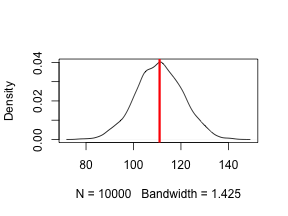
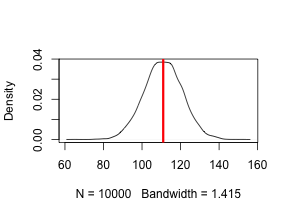
Slight revision, changing quad approx plot

diff --git a/hw1ashander.md b/hw1ashander.md
@@ -1,12 +1,65 @@
-# Homework 1, Statistical rethinking
- Jaime Ashander
+latex input:		mmd-tufte-handout-header  
+Title:			Homework 1, Statistical rethinking
+Base Header Level:	2
+latex mode:			memoir  
+author:           Jaime Ashander
+copyright:			2011 Jaime Ashander
+					This work is licensed under a Creative Commons License.  
+					http://creativecommons.org/licenses/by-nc-sa/3.0/  
+latex input:		mmd-natbib-plain
+latex input:		mmd-tufte-handout-begin-doc  
+latex footer:		mmd-tufte-footer
 
 
 
+```
+## Loading required package: bbmle
+```
+```
+## Loading required package: stats4
+```
+```
+## Loading required package: numDeriv
+```
+```
+## Loading required package: lattice
+```
+```
+## Loading required package: MASS
+```
+```
+## Loading required package: rethinking
+```
+```
+## Loading required package: ggplot2
+```
+```
+## Loading required package: reshape
+```
+```
+## Loading required package: plyr
+```
+```
+## 
+## Attaching package: 'reshape'
+## 
+```
+```
+## The following object(s) are masked from 'package:plyr':
+## 
+##     rename, round_any
+## 
+```
+```
+## Loading required package: grid
+```
+```
+## Loading required package: proto
+```
 
 
 
-# Problem 1  
+## Problem 1  
 
 First load the data, `birth1` and `birth2`, which indicate the gender (male=1, female=0) of reported first (second) born children in 100 families.
 All families in this country have a maximum of two children.
@@ -20,7 +73,7 @@ data(homeworkch2)  #
 
 
 
-## 1 a
+### 1 a
 
 ```r
 p.b <- seq(from = 0, to = 1, length.out = 1000)
@@ -47,7 +100,7 @@ pb.max <- Max.post(p.b, posterior)
 
 
 
-## 1 b
+### 1 b
 
 
 
@@ -58,7 +111,12 @@ Choice of appropriate sample and formatting of output is encapsulated in functio
 ```r
 p.b.sample <- sample(p.b, size = 10000, replace = TRUE, 
     prob = posterior)
-CI.types=c(0.50, 0.90, 0.95)
+```
+```
+## Warning message: Walker's alias method used: results are different from R < 2.2.0
+```
+```r
+CI.types <- c(0.5, 0.9, 0.95)
 CI.data <- t(sapply(CI.types, function(x) {
     unlist(Precis.bayes(p.b, posterior = posterior, param.samples = p.b.sample, 
         level = x))
@@ -73,16 +131,16 @@ Credible intervals, based on sampling the posterior density, for probabilty of d
   
 ```
 ##   Estimate  lower  upper Interval.width
-## 1   0.5546 0.5305 0.5776            0.5
-## 2   0.5546 0.4965 0.6126            0.9
-## 3   0.5546 0.4825 0.6216           0.95
+## 1   0.5546 0.5255 0.5726            0.5
+## 2   0.5546 0.4945 0.6086            0.9
+## 3   0.5546 0.4865 0.6226           0.95
 ```
 
 
 
   Maximum posterior probability estimate of `p.b` is also reported.
 
-## 1c
+### 1c
 
 For maximum likelihood estimation we use `mle2`, and `rethinking::precis` to construct confidence intervals. 
 
@@ -129,7 +187,7 @@ Additionally, the ML posterior is symmetric.
 
 ```r
 dens.compare <- data.frame(probability = p.b, 
-    Bayes = -log(posterior), ML = -log(dnorm(p.b, mean = pb.max, 
+    Bayes = -log(posterior), ML = -log(dnorm(p.b, mean = fit.ml$Estimate[1], 
         sd = sqrt(vcov(pb.ml)))/sum(dnorm(p.b, mean = pb.max, 
         sd = sqrt(vcov(pb.ml))))))
 d.c = melt(dens.compare, id.vars = "probability")
@@ -137,7 +195,7 @@ d.c = melt(dens.compare, id.vars = "probability")
 g <- ggplot(d.c, aes(probability, value, color = variable))
 g + geom_line() + ylab("- log density")
 ```
-![plot of chunk prob1_fig2](https://github.com/ashander/stat-rethink/raw/master/prob1_fig2.png)
+![plot of chunk prob1_fig1](https://github.com/ashander/stat-rethink/raw/master/prob1_fig1.png)
 
 
 The ML confidence intervals and Bayesian HPDIs are shown below recentered by the ML estimate.
@@ -159,14 +217,14 @@ g <- ggplot(fit.both)
 g + geom_pointrange(aes(Interval.width, Estimate, 
     ymin = lower, ymax = upper, color = type), position = position_dodge(width = 0.1))
 ```
-![plot of chunk prob1_fig1](https://github.com/ashander/stat-rethink/raw/master/prob1_fig1.png)
+![plot of chunk prob1_fig2](https://github.com/ashander/stat-rethink/raw/master/prob1_fig2.png)
 
 
 
   
-# Problem 2
+## Problem 2
 
-## 2a
+### 2a
 
   Now, we simulate the number of boys born in 200 births using `rbinom`, 10000 replicates:
 
@@ -192,7 +250,7 @@ Above is the density of the predicted number of boys, with the actual births (re
 From this use of posterior predictive simulation, the model seems to fit the data well.
 
 
-## 2b
+### 2b
 
 We now simulate the number of first born boys in 100 births using `rbinom`, 10000 replicates:
 
@@ -212,7 +270,7 @@ As above, this plot shows the density of predicted number of boys, but this time
 Here, it looks like the model overpredicts the number of first-born boys.
 
 
-## 2c
+### 2c
 
 To simulate the number of second born boys with sisters as first-born, we must ask:
 How many first-born girls were there, and how were the siblings born after girls distributed?
@@ -246,30 +304,46 @@ Yet, the model performs well on births in aggregate (as shown in 2a).
 This could be explained if the assumption of independence between sex of first and second born is invalid in general.
 Then, if the increased likelihood of bearing girls following boys cancels out the above-demonstrated underprediction of second born boys following girls, the aggregate data could still fit our model, which assumed independence.
 
-# Full code
+## Full code
 
 [Link to the full code.](https://github.com/ashander/stat-rethink/raw/master/hw1ashander_knit_.R)
 
   
-# Colophon 
+## Colophon 
 
 Written using the excellent [knitr](http://yihui.github.com/knitr/).
 
-Need to use not only the options below suggested by knitr docs
-
 ```r
-require(knitr)  ## the package
-opts_knit$set(base.url = "https://github.com/ashander/stat-rethink/raw/master/")
-```
-
-
-
-but also 
-
-```r
-opts_knit$set(out.format = "gfm")
+require(knitr)  ### the package
 knit("/Users/jaime/PHD/stat-rethink/hw1ashander_knit_.md")  ## to run
 ```
 
+
+
+### For Github
+
+```r
+opts_knit$set(base.url = "https://github.com/ashander/stat-rethink/raw/master/")
+opts_knit$set(out.format = "gfm")
+```
+
+
+
+### For normal markdown
+
+```r
+#opts_knit$set(base.url='https://github.com/ashander/stat-rethink/raw/master/')
+opts_knit$set(out.format = "markdown")
+```
+
+
+
+  
+### For latex
+
+```r
+#opts_knit$set(base.url='https://github.com/ashander/stat-rethink/raw/master/')
+opts_knit$set(out.format = "tex", theme = "tex")
+```
 
 

diff --git a/hw1ashander_knit_.md b/hw1ashander_knit_.md
@@ -117,8 +117,8 @@ end.rcode-->
 As can be seen from the figure below, the quadratic approximation of the density agrees with the Bayesian posterior in the center of the distribution, but deviates wildly in the tails.
 Additionally, the ML posterior is symmetric.
 
-<!--begin.rcode prob1_fig2, message=FALSE, fig=TRUE
-dens.compare <- data.frame(probability=p.b, Bayes=-log(posterior), ML = -log(dnorm(p.b, mean=pb.max, sd=sqrt(vcov(pb.ml)))/sum(dnorm(p.b, mean=pb.max, sd=sqrt(vcov(pb.ml))))))
+<!--begin.rcode prob1_fig1, message=FALSE, fig=TRUE
+dens.compare <- data.frame(probability=p.b, Bayes=-log(posterior), ML = -log(dnorm(p.b, mean=fit.ml$Estimate[1], sd=sqrt(vcov(pb.ml)))/sum(dnorm(p.b, mean=pb.max, sd=sqrt(vcov(pb.ml))))))
 d.c = melt(dens.compare, id.vars='probability')
 
 g <- ggplot(d.c, aes(probability, value, color=variable))
@@ -131,7 +131,7 @@ Bayesian estimates are slightly below ML estimates, but the intervals tend to ag
 Overall, Bayesian and ML estimate perform similarly for this data set. 
 
   
-<!--begin.rcode prob1_fig1, message=FALSE, fig=TRUE
+<!--begin.rcode prob1_fig2, message=FALSE, fig=TRUE
 fit.bayes$type <- "Bayes (HDPI)"
 fit.ml$type <- "Max. Lik. (CI)"
 estimate.ml <- fit.ml[,1] # recenter by the ML estimates
